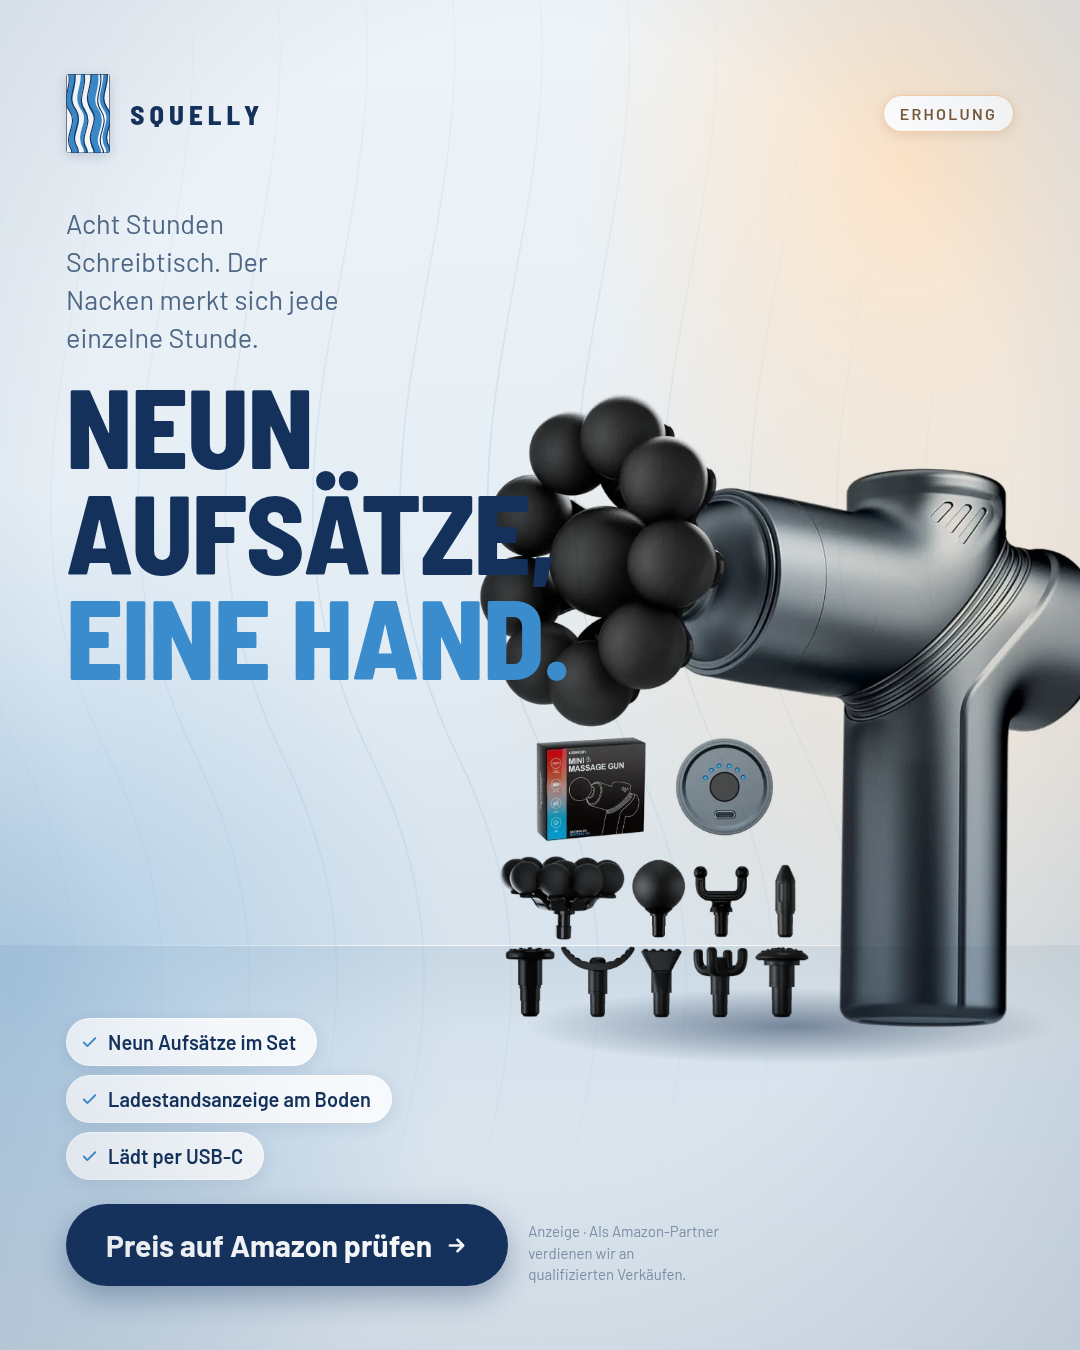
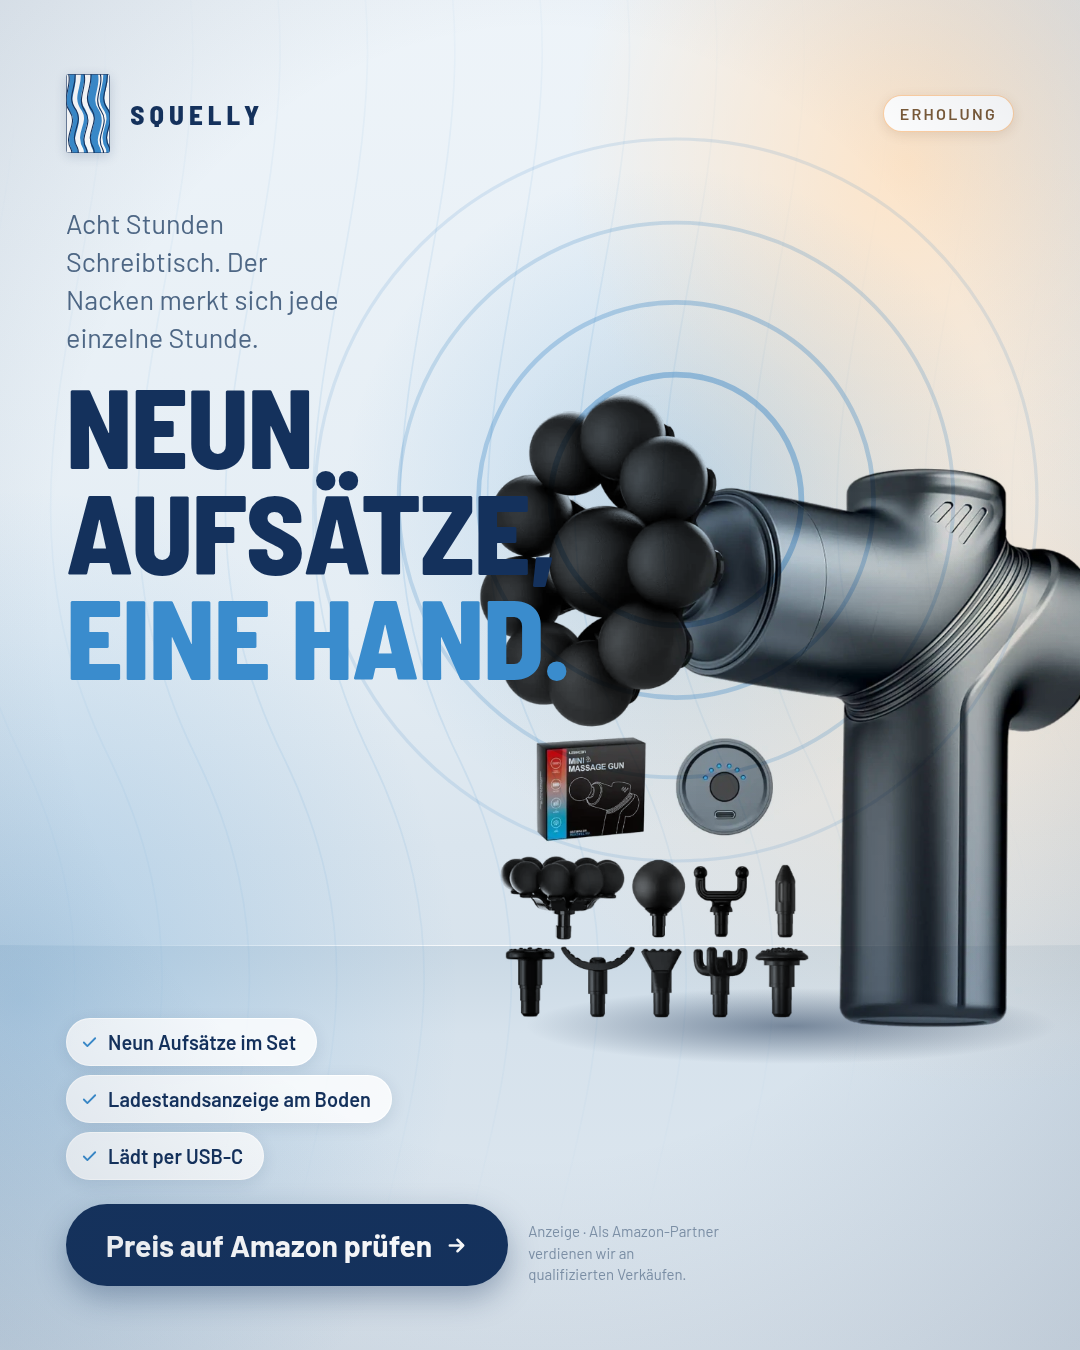
Give each creative a mark for what its product does
The lamp already showed its colour circle; the other two showed
nothing. All three now carry a circular mark centred on the working
end of the device, so the set reads as a family while each sheet stays
its own.

- Vacuum sealer draws in: rings tighten toward the nozzle and filled
  points aim at the centre
- Massage gun strikes out: rings travel outward and fade
- Lamp radiates: the warm circle it casts, unchanged

The suction points sit on a ring offset by 22.5 degrees. On the
cardinal angles two of them landed on the device's vertical axis,
where the multiply blend let them show through the white body.

Claude-Session: https://claude.ai/code/session_01Kc8PukdsvKsrThR87MMvZu

diff --git a/werbemittel/motive-vorlage.html b/werbemittel/motive-vorlage.html
@@ -82,6 +82,30 @@ body{background:#2a2a2a;display:flex;flex-direction:column;align-items:center;ga
   background:radial-gradient(closest-side, rgba(255,152,96,.34), rgba(255,152,96,0) 76%);
   filter:blur(8px)}
 
+
+/* ============================================================
+   Wirkmotive — jedes Blatt bekommt sein eigenes Zeichen.
+   Lampe: Licht strahlt ab. Vakuumierer: Luft wird eingezogen.
+   Massagepistole: Impulse schlagen aus.
+   Alle drei sind Kreise um den Wirkpunkt des Geräts, damit die
+   Serie zusammengehört, ohne dass ein Blatt wie das andere aussieht.
+   ============================================================ */
+.fx{position:absolute;z-index:2;pointer-events:none}
+.fx svg{width:100%;height:100%;display:block;overflow:visible}
+
+/* Sog: Ringe verdichten sich nach innen, Pfeile zeigen zur Düse */
+#ad1 .fx{left:355px;bottom:120px;width:560px;height:560px}
+#ad1 .fx .aura{position:absolute;inset:0;border-radius:50%;
+  background:radial-gradient(circle,rgba(58,140,205,.30) 0%,rgba(58,140,205,.13) 38%,rgba(58,140,205,0) 66%)}
+
+/* Impuls: Ringe laufen nach außen und werden schwächer */
+#ad2 .fx{left:300px;bottom:290px;width:700px;height:700px}
+#ad2 .fx .aura{position:absolute;inset:0;border-radius:50%;
+  background:radial-gradient(circle,rgba(58,140,205,.26) 0%,rgba(58,140,205,.1) 34%,rgba(58,140,205,0) 62%)}
+
+body.hoch #ad1 .fx{left:350px;bottom:340px;width:600px;height:600px}
+body.hoch #ad2 .fx{left:296px;bottom:470px;width:760px;height:760px}
+
 /* ---------- Farbpunkte ---------- */
 .dots{display:inline-flex;gap:5px;margin-right:4px}
 .dots i{width:15px;height:15px;border-radius:50%;background:var(--c);display:block;

diff --git a/werbemittel/motive-bauen.py b/werbemittel/motive-bauen.py
@@ -38,6 +38,40 @@ ADS=[
    kopf='16 Farben,<br><span class="big">ein Schalter.</span>',
    belege=["16 Farben, vier Lichtmodi","Fernbedienung liegt bei","Kopf um 180° schwenkbar"]),
 ]
+
+# --- Wirkmotive als SVG ---------------------------------------------------
+def sog():
+    """Luft wird eingezogen: gleiche Ringsprache wie beim Impuls, aber
+    gefüllte Spitzen zeigen nach innen und drehen die Leserichtung um."""
+    import math
+    ringe = "".join(
+        '<circle cx="200" cy="200" r="%d" fill="none" stroke="#2f7ec0" stroke-width="%s" '
+        'stroke-opacity="%s"/>' % (r, sw, op)
+        for r, sw, op in [(72,"1.7","0.14"),(116,"2","0.2"),(158,"2.4","0.3"),(198,"3","0.42")])
+    spitzen = ""
+    # Um 22,5 Grad versetzt: so liegt keine Spitze auf der Senkrechten des Geräts,
+    # wo sie durch den weißen Korpus durchscheinen würde.
+    for i in range(8):
+        w = 22.5 + i * 45
+        rad = math.radians(w)
+        x, y = 200 + math.cos(rad) * 158, 200 + math.sin(rad) * 158
+        spitzen += ('<path d="M0,0 L15,-8.5 L15,8.5 Z" fill="#2f7ec0" fill-opacity=".46" '
+                    'transform="translate(%.1f %.1f) rotate(%.1f)"/>' % (x, y, w))
+    return ('<div class="fx"><div class="aura"></div>'
+            '<svg viewBox="0 0 400 400">%s%s</svg></div>' % (ringe, spitzen))
+
+def impuls():
+    """Schläge pro Minute: Ringe laufen nach außen aus."""
+    ringe = "".join(
+        '<circle cx="200" cy="200" r="%d" fill="none" stroke="#2f7ec0" stroke-width="%s" '
+        'stroke-opacity="%s"/>' % (r, sw, op)
+        for r, sw, op in [(66,"3","0.42"),(104,"2.4","0.3"),(146,"2","0.2"),
+                          (190,"1.7","0.13")])
+    return ('<div class="fx"><div class="aura"></div>'
+            '<svg viewBox="0 0 400 400">%s</svg></div>' % ringe)
+
+WIRKUNG = {"ad1": sog, "ad2": impuls}
+
 bilder=json.load(open(d+'bilder-ad.json'))
 teile=[DEFS]
 for a in ADS:
@@ -49,7 +83,8 @@ for a in ADS:
         return '<span class="pf">%s%s</span>' % (HAKEN, b)
     belege="".join(chip(i,b) for i,b in enumerate(a["belege"]))
     img=bilder[a["bild"]]
-    glow = ('<div class="glow"></div><div class="glowfloor"></div>' if a["id"]=="ad3" else "")
+    glow = ('<div class="glow"></div><div class="glowfloor"></div>' if a["id"]=="ad3"
+            else WIRKUNG[a["id"]]())
     teile.append('''<div class="cap">%(id)s — %(tag)s</div>
 <div class="ad" id="%(id)s">
   <div class="surface"></div>
